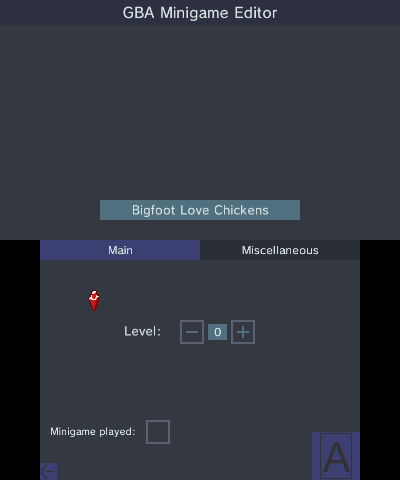
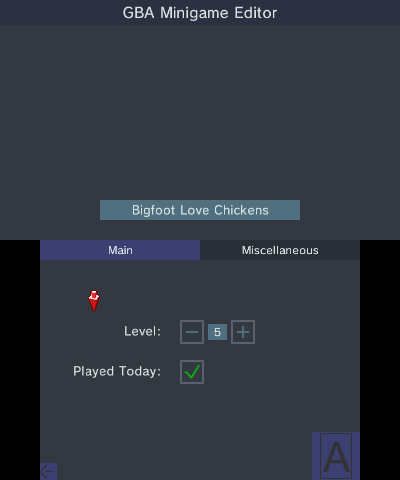
See desc for more.
- Properly refresh the Minigame editor.

- Fixed GBA Cast Editor's picture / feeling handle.

- Only include default cast images and not the alt ones.

diff --git a/3ds/source/screens/editor/gba/GBACastEditor.cpp b/3ds/source/screens/editor/gba/GBACastEditor.cpp
@@ -26,6 +26,7 @@
 
 #include "Common.hpp"
 #include "GBACastEditor.hpp"
+#include "ListSelection.hpp"
 #include "Strings.hpp"
 
 /* Cast Selector. */
@@ -128,8 +129,15 @@ void GBACastEditor::ChangeIntimidate() { // Changes the Intimidate Conversation 
 	else this->ActiveCast->Intimidate(0);
 };
 
-/* Toogle Alternative Picture + Mystery. */
-void GBACastEditor::ToggleAlt() { this->ActiveCast->Alternativepic(!this->ActiveCast->Alternativepic()); };
+/* Set the Picture. */
+void GBACastEditor::SetPicture() {
+	std::unique_ptr<ListSelection> Ovl = std::make_unique<ListSelection>(this->PictureNames, "Select the expression for the Picture.", (uint8_t)this->ActiveCast->Picture());
+	const S2Editor::GBACastPicture Picture = (S2Editor::GBACastPicture)Ovl->Action();
+
+	if (Picture != this->ActiveCast->Picture()) this->ActiveCast->Picture(Picture);
+};
+
+/* Toggle Mystery. */
 void GBACastEditor::ToggleMystery() { this->ActiveCast->Mystery(!this->ActiveCast->Mystery()); };
 
 /* Miscellaneous Tab. */
@@ -154,11 +162,14 @@ void GBACastEditor::MysteryUnlocks() { // Unlock all Mysteries.
 		Cst->Mystery(true);
 	}
 };
-void GBACastEditor::PictureUnlocks() { // Unlock all Alternative Pictures.
+void GBACastEditor::MassPictureChange() { // Set the picture for all casts.
+	std::unique_ptr<ListSelection> Ovl = std::make_unique<ListSelection>(this->PictureNames, "Select the expression for the Picture.", (uint8_t)this->ActiveCast->Picture());
+	const S2Editor::GBACastPicture Picture = (S2Editor::GBACastPicture)Ovl->Action();
+
 	for (uint8_t Idx = 0; Idx < 26; Idx++) {
 		std::unique_ptr<S2Editor::GBACast> Cst = this->Slot->Cast(Idx);
 
-		Cst->Alternativepic(true);
+		Cst->Picture(Picture);
 	}
 };
 
@@ -181,7 +192,7 @@ void GBACastEditor::Draw(void) const {
 	else {
 		GFX::DrawTop();
 		Gui::DrawStringCentered(0, 3, 0.6f, TEXT_COLOR, "GBA Cast Editor");
-		Gui::DrawSprite(GFX::Casts, this->ActiveCast->Index() + (this->ActiveCast->Alternativepic() ? 26 : 0), 150, 25 + 57);
+		Gui::DrawSprite(GFX::Casts, this->ActiveCast->Index(), 150, 25 + 57);
 		Gui::Draw_Rect(100, 200, 200, 20, BUTTON_COLOR);
 		Gui::DrawStringCentered(0, 202, 0.5f, TEXT_COLOR, S2Editor::Strings::GBACastNames_EN[this->ActiveCast->Index()]);
 	}
@@ -204,9 +215,9 @@ void GBACastEditor::Draw(void) const {
 			Gui::DrawString(230, 30, 0.5f, TEXT_COLOR, "Intimidate");
 			Gui::DrawSprite(GFX::Sprites, sprites_conversation_0_idx + (this->ActiveCast->Intimidate()), this->Positions[4].X, this->Positions[4].Y);
 
-			/* Draw Alt pic + Mystery boxes. */
-			Gui::DrawString(10, this->Positions[5].Y + 5, 0.4f, TEXT_COLOR, "Alternative Picture: ");
-			GFX::DrawCheckbox(this->Positions[5].X, this->Positions[5].Y, this->ActiveCast->Alternativepic());
+			/* Draw Picture + Mystery box. */
+			Gui::DrawString(10, this->Positions[5].Y + 5, 0.4f, TEXT_COLOR, "Picture: " + this->PictureNames[(uint8_t)this->ActiveCast->Picture()]);
+			Gui::DrawSprite(GFX::Sprites, sprites_stripe_idx, this->Positions[5].X, this->Positions[5].Y);
 			Gui::DrawString(10, this->Positions[6].Y + 5, 0.4f, TEXT_COLOR, "Mystery Unlocked: ");
 			GFX::DrawCheckbox(this->Positions[6].X, this->Positions[6].Y, this->ActiveCast->Mystery());
 			break;

diff --git a/3ds/include/screens/editor/gba/GBACastEditor.hpp b/3ds/include/screens/editor/gba/GBACastEditor.hpp
@@ -79,7 +79,7 @@ private:
 	void ChangeFriendly();
 	void ChangeRomance();
 	void ChangeIntimidate();
-	void ToggleAlt();
+	void SetPicture();
 	void ToggleMystery();
 
 	const std::vector<PointerStr> Positions = {
@@ -89,7 +89,7 @@ private:
 		{ 26, 50, 73, 80, [this]() { this->ChangeFriendly(); } },
 		{ 124, 50, 73, 80, [this]() { this->ChangeRomance(); } },
 		{ 222, 50, 73, 80, [this]() { this->ChangeIntimidate(); } },
-		{ 106, 140, 24, 24, [this]() { this->ToggleAlt(); } },
+		{ 106, 140, 24, 24, [this]() { this->SetPicture(); } },
 		{ 106, 180, 24, 24, [this]() { this->ToggleMystery(); } },
 		{ 272, 192, 48, 48, [this]() { this->SelectCast(); } },
 		{ 0, 223, 17, 17, [this]() { this->Back(); } }
@@ -99,7 +99,7 @@ private:
 	void MinConversation();
 	void MaxConversation();
 	void MysteryUnlocks();
-	void PictureUnlocks();
+	void MassPictureChange();
 
 	const std::vector<PointerStr> MassPos = {
 		{ 0, 0, 160, 20, [this]() { this->MainTab(); } },
@@ -108,13 +108,14 @@ private:
 		{ 80, 35, 160, 35, [this]() { this->MinConversation(); } },
 		{ 80, 80, 160, 35, [this]() { this->MaxConversation(); } },
 		{ 80, 125, 160, 35, [this]() { this->MysteryUnlocks(); } },
-		{ 80, 170, 160, 35, [this]() { this->PictureUnlocks(); } },
+		{ 80, 170, 160, 35, [this]() { this->MassPictureChange(); } },
 
 		{ 272, 192, 48, 48, [this]() { this->SelectCast(); } },
 		{ 0, 223, 17, 17, [this]() { this->Back(); } }
 	};
 
-	const std::vector<std::string> MiscNames = { "Clear Conversations", "Max out Conversations", "Unlock all Mysteries", "Unlock all Alternative Pictures" };
+	const std::vector<std::string> MiscNames = { "Clear Conversations", "Max out Conversations", "Unlock all Mysteries", "Set all Pictures" };
+	const std::vector<std::string> PictureNames = { "Neutral", "Friendly", "Angry", "Love", "Invalid" };
 };
 
 #endif

diff --git a/3ds/source/screens/editor/gba/GBAMinigameEditor.cpp b/3ds/source/screens/editor/gba/GBAMinigameEditor.cpp
@@ -37,8 +37,10 @@ void GBAMinigameEditor::ResetLevels() { // Reset Minigame Levels.
 	for (uint8_t Idx = 0; Idx < 7; Idx++) {
 		std::unique_ptr<S2Editor::GBAMinigame> Game = this->Slot->Minigame(Idx);
 
-		Game->Level(1, true);
+		Game->Level(0, true);
 	}
+
+	this->LevelLabel = std::make_unique<NumInputLabel<uint8_t>>(140, 80, this->ActiveMinigame->Level(), 0, 5, "Enter the Minigame Level.");
 };
 void GBAMinigameEditor::MaxLevels() { // Max out Minigame Levels.
 	for (uint8_t Idx = 0; Idx < 7; Idx++) {
@@ -46,6 +48,8 @@ void GBAMinigameEditor::MaxLevels() { // Max out Minigame Levels.
 
 		Game->Level(5, true);
 	}
+
+	this->LevelLabel = std::make_unique<NumInputLabel<uint8_t>>(140, 80, this->ActiveMinigame->Level(), 0, 5, "Enter the Minigame Level.");
 };
 void GBAMinigameEditor::AllPlayed() { // Set all Minigames to played.
 	for (uint8_t Idx = 0; Idx < 7; Idx++) {
@@ -108,7 +112,7 @@ void GBAMinigameEditor::Draw(void) const {
 			this->LevelLabel->Draw();
 
 			/* Draw Minigame Played. */
-			Gui::DrawString(10, this->Positions[2].Y + 5, 0.4f, TEXT_COLOR, "Minigame played: ");
+			Gui::DrawString(120, 123, 0.5f, TEXT_COLOR, "Played Today: ", 110, 0, nullptr, C2D_AlignRight);
 			GFX::DrawCheckbox(this->Positions[2].X, this->Positions[2].Y, this->ActiveMinigame->Played());
 			break;
 

diff --git a/3ds/source/screens/editor/Editor.cpp b/3ds/source/screens/editor/Editor.cpp
@@ -57,6 +57,7 @@ void Editor::LoadSAV() {
 	const std::string Path = Overlay->Action();
 	if (Path != "!") { // '!' means canceled.
 		const S2Editor::SAVType ST = S2Editor::SAVUtils::DetectType(Path);
+
 		switch(ST) {
 			case S2Editor::SAVType::_GBA:
 			case S2Editor::SAVType::_NDS:
@@ -71,6 +72,7 @@ void Editor::LoadSAV() {
 
 		if (ST == S2Editor::SAVType::_GBA || ST == S2Editor::SAVType::_NDS) {
 			S2Editor::SAVUtils::LoadSAV(Path);
+
 			if (CFG->CreateBackups()) {
 				if (S2Editor::SAVUtils::CreateBackup("sdmc:/3ds/Sim2Editor")) {
 					std::unique_ptr<WaitMessage> Ovl = std::make_unique<WaitMessage>("Backup Created!\nHave fun with the Editor now.");

diff --git a/3ds/source/screens/Settings.cpp b/3ds/source/screens/Settings.cpp
@@ -144,8 +144,7 @@ void Settings::DrawPages() const {
 
 			/* Change this, after changes to the 3DS version. */
 			Gui::DrawStringCentered(0, 130, 0.4f, TEXT_COLOR,
-				"* [GBA]: Added Minigame Editor.\n"
-				"* [CORE]: Updated Core with latest changes.\n",
+				"* [CORE]: Fixed Cast Pictures\n(You can now change it between Neutral, Friendly, Angry, Love).",
 			310);
 			break;
 	}

diff --git a/3ds/include/screens/editor/gba/GBAMinigameEditor.hpp b/3ds/include/screens/editor/gba/GBAMinigameEditor.hpp
@@ -62,7 +62,7 @@ private:
 		{ 0, 0, 160, 20, [this]() { this->MainTab(); } },
 		{ 160, 0, 160, 20, [this]() { this->MiscTab(); } },
 
-		{ 106, 180, 24, 24, [this]() { this->TogglePlayed(); } },
+		{ 140, 120, 24, 24, [this]() { this->TogglePlayed(); } },
 
 		{ 272, 192, 48, 48, [this]() { this->SelectMinigame(); } },
 		{ 0, 223, 17, 17, [this]() { this->Back(); } }

diff --git a/Features-List.md b/Features-List.md
@@ -7,11 +7,11 @@
 ### Cast Editor
 - [x] Edit the Cast Friendly, Romance and Intimidate Conversation Level.
 - [x] Edit the Cast's Mystery Unlocked state.
-- [x] Edit the Cast's Alternative Picture (Friendly) state.
+- [x] Edit the Cast's picture / feeling.
 - [x] Mass clear out Cast Conversations.
 - [x] Mass max out Cast Conversations.
 - [x] Mass unlock the Mystery unlocked state.
-- [x] Mass unlock all the Alternative Pictures.
+- [x] Mass set the cast picture / feeling.
 
 ### Episode Editor
 - [x] Edit Episode Ratings individually (`Plot Points Completed`, `Aspiration Conversations`, `Hidden Want Completed` and `Errand Completed`).
